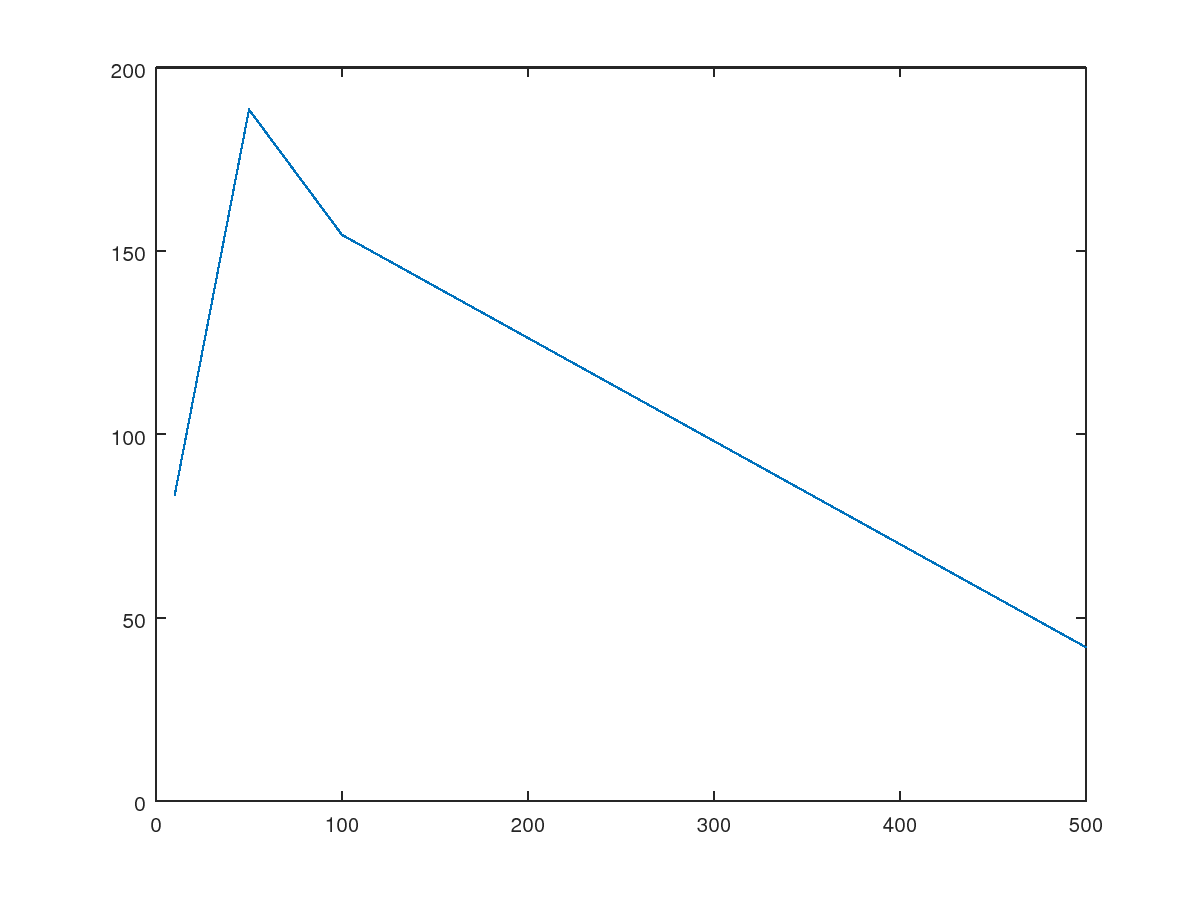
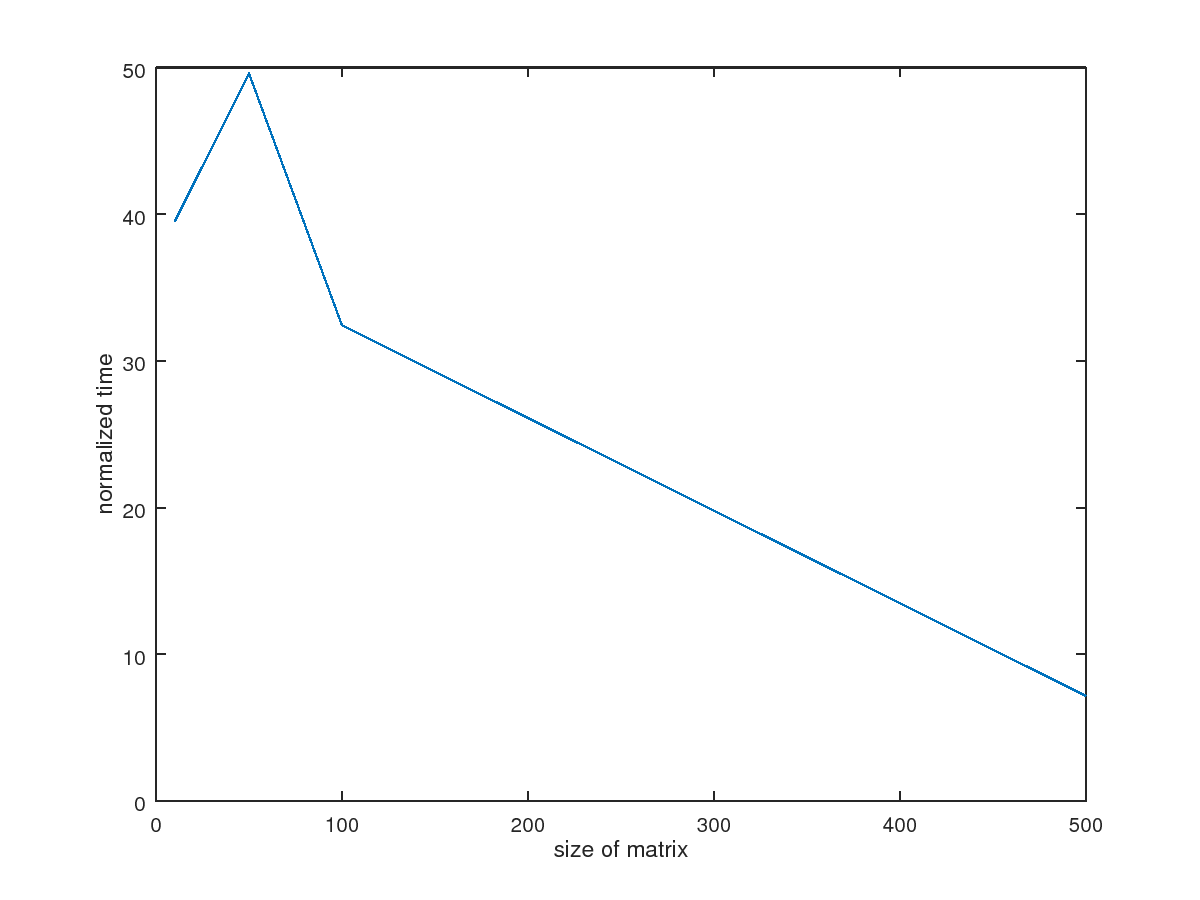
p1, p2 working

diff --git a/p2.m b/p2.m
@@ -9,7 +9,8 @@ function A = mat(N)
 end
 
 % Power mathod for finding largest eigenvalue
-function l = pow_l(A)
+function [l, t] = pow(A)
+  tic;
   [n, ~] = size(A);
   v = zeros(n,1);
   v(1) = 1;
@@ -23,10 +24,11 @@ function l = pow_l(A)
     end
     l0 = l;
   end
+  t = toc;
 end
 
 % Power mathod for finding smallest eigenvalue
-function l = pow_s(A)
+function [l, t] = pow_s(A)
   [n, ~] = size(A);
   v = zeros(n,1);
   v(1) = 1;
@@ -40,11 +42,11 @@ function l = pow_s(A)
     end
     l0 = l;
   end
-  eig(A)
 end
 
-% Rayleigh method for finding largest eigenvalue
-function l = ray_l(A)
+% Rayleigh method for finding smallest positive eigenvalue
+function [l, t] = ray(A)
+  tic;
   [n, ~] = size(A);
   I = eye(n);
   v = zeros(n,1);
@@ -54,13 +56,37 @@ function l = ray_l(A)
     w = (A-l0*I)\v;
     v = w/norm(w);
     l = v'*A*v;
-    if abs((l-l0)/l0) < 1e-3
+    if l0 ~= 0 && abs((l-l0)/l0) < 1e-3
       break
     end
     l0 = l;
   end
-  eig(A)
+  t = toc;
 end
 
+% Returns average time taken by Power/Rayleigh routine for matrices of size N
+function t = avg(func, N, n)
+  T = ones(n, 1);
+  b = ones(N, 1);
+  for i = 1:n
+    [~, T(i)] = func(mat(N));
+  end
+  t = mean(T);
+ end
+ 
+% Plots time taken by Power/Rayleigh routine
+function plt(func, img_name)
+  N = [10, 50, 100, 500];
+  t = ones(4, 1);
+  for i = 1:4
+    t(i) = avg(func, N(i), 100);
+  end
+  fig = figure("visible", "off");
+  plot(N, t);
+  ylabel("time (s)"); xlabel("size of matrix"); 
+  saveas(fig, img_name, "png");
+  disp("Plot has been generated")
+end
 
-ray_l(mat(5))
+plt(@pow, "Power");
+plt(@ray, "Rayleigh");

diff --git a/p1.m b/p1.m
@@ -49,29 +49,28 @@ function t = ja(A, b)
 end
 
 % Returns average normalized time taken by Gauss Seidel/Jacobi routine for matrices of size N
-function t = avg(f, N, n)
+function t = avg(func, N, n)
   T = ones(n, 1);
   b = ones(N, 1);
   for i = 1:n
-    T(i) = f(mat(N), b);
+    T(i) = func(mat(N), b);
   end
   t = mean(T);
  end
  
 % Plots normalized time taken by Gauss Seidel/Jacobi routine
-function plt(f)
-  N = [10, 50];
+function plt(func, img_name)
+  N = [10, 50, 100, 500];
   t = ones(4, 1);
   for i = 1:4
-    t(i) = avg(f, N(i), 20);
+    t(i) = avg(func, N(i), 100);
   end
-  disp('bob')
   fig = figure("visible", "off");
-  plot(N, t); 
-  saveas(fig, "Gauss_Seidel", "png");
+  plot(N, t);
+  xlabel('size of matrix'); ylabel('normalized time'); 
+  saveas(fig, img_name, "png");
   disp("Plot has been generated")
 end
 
-%plt(@gs);
-%plt(@ja);
-ja(mat(50), ones(50,1))
+plt(@gs, "Gauss_Seidel");
+plt(@ja, "Jacobi");

diff --git a/p3.m b/p3.m
@@ -1,0 +1,31 @@
+% This is not a function file
+1;
+
+% Generates test data for numerical experiment
+function [A, b, xtrue] = gen_data()
+  N = 400;
+  k = 6;
+  [Q, R] = qr(randn(N));
+  D = diag(10.^(1:k/N:k));
+  A = Q*D*Q';
+  b = ones(N,1);
+  xtrue = A/b;
+end
+
+% Steepest descent routine
+function x = sd(A, b)
+  n = length(b);
+  x0 = rand(n, 1);
+  x1 = A\b;
+  nx1 = norm(x1);
+  while true
+    d = b - A*x0;
+    x = x0 + ((d'*d)/(d'*A*d))*d;
+    if norm(x-x1)/x1 < 1e-4
+      break
+    end
+    x0 = x
+  end
+end
+
+sd(rand(4), ones(4, 1))
